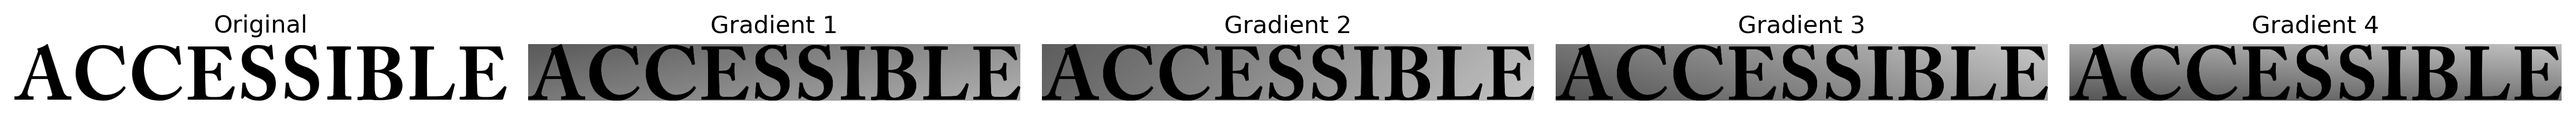
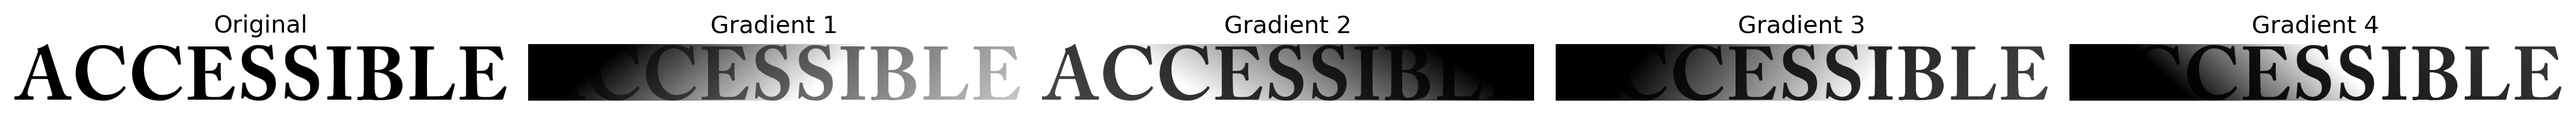
Updated gradient to match original code included with data (#72)
* Updated gradient to match original code included with data

* Fixed eval squeeze and monitoring metrics for finetune

* Adjusted blur limit

* Added additional logging

diff --git a/deepfont/data/augmentations.py b/deepfont/data/augmentations.py
@@ -10,78 +10,70 @@ from albumentations.augmentations.geometric.functional import resize
 
 IMAGE_SIZE = 105
 SQUEEZE_RATIO = 1 / 2.5
-SCALE_LIMIT = 0.15
-EVAL_SCALE_LIMIT = 0.4
-ROTATE_BOUNDS = (-45, 45)
-SHEAR_BOUNDS = (-15, 15)
-BLUR_LIMIT = (2.5, 3.5)
+SCALE_LIMIT = 0.4
+ROTATE_BOUNDS = (-3, 3)
+SHEAR_BOUNDS = (-3, 3)
+BLUR_LIMIT = (0.5, 1.0)
 NOISE_MEAN_RANGE = (0.0, 0.0)
-NOISE_STD_RANGE = (0.05, 0.15)
+NOISE_STD_RANGE = (0.008, 0.016)
 ROT_FLIP_PROB = 0.5
+INVERT_PROB = 0.5
+GRADIENT_FG_RANGE = (140, 220)
+GRADIENT_BG_RANGE = (20, 100)
+GRADIENT_A_RANGE = (0.4, 0.6)
 
 
 def add_grayscale_gradient(
-    image: np.ndarray, gradient_min: tuple = (20, 100), gradient_max: tuple = (140, 220)
+    image: np.ndarray,
+    fg_range: tuple = GRADIENT_FG_RANGE,
+    bg_range: tuple = GRADIENT_BG_RANGE,
+    a_range: tuple = GRADIENT_A_RANGE,
 ) -> np.ndarray:
-    """Adds a random linear gradient overlay to a grayscale image.
+    """Applies directional gradient shading that faithfully replicates affine2d.apply2.
 
-    This function generates a 2D linear gradient in a random direction and subtracts
-    it from the input image to simulate lighting variations. The gradient direction is
-    determined by a random 2D vector, and its intensity range is randomly sampled from
-    the specified bounds. This augmentation helps models become more robust to varying
-    lighting conditions and background gradients.
+    The legacy DeepFont C extension (affine2d.so) applies gradient shading in two steps:
+      1. Intensity remap: pixel values are linearly mapped from [0, 255] → [bg, fg],
+         so dark pixels get the background tone and bright pixels get the foreground tone.
+      2. Multiplicative spatial gradient: a linear scale centered on the image is applied
+         in a random direction θ, with amplitude controlled by `a`.
 
-    The gradient is normalized to [0, 1] and then scaled to the range [gradient_min, gradient_max]
-    before being subtracted from the image. The result is clipped to [0, 255] to ensure
-    valid pixel values.
+    Combined formula per pixel at (col, row):
+        normalized = pixel * (fg - bg) / 255 + bg
+        grad_pos   = (col - w/2) * cos(θ) + (row - h/2) * sin(θ)
+        scale      = 1.0 + a * grad_pos / min(h, w)
+        output     = normalized * scale
 
     Args:
         image: A 2D NumPy array representing a grayscale image with values in [0, 255].
             The array dtype will be preserved in the output.
-        gradient_min: A tuple of two floats (min_bound, max_bound) defining the range
-            from which the minimum gradient intensity is randomly sampled. Default is
-            (20, 100), meaning the gradient minimum will be between 20 and 100.
-        gradient_max: A tuple of two floats (min_bound, max_bound) defining the range
-            from which the maximum gradient intensity is randomly sampled. Default is
-            (140, 220), meaning the gradient maximum will be between 140 and 220.
+        fg_range: (min, max) for the foreground (bright) intensity level.
+            Default matches the legacy code: (140, 220).
+        bg_range: (min, max) for the background (dark) intensity level.
+            Default matches the legacy code: (20, 100).
+        a_range: (min, max) for the gradient amplitude factor.
+            Default matches the legacy code: (0.4, 0.6).
 
     Returns:
-        A 2D NumPy array of the same shape and dtype as the input, representing the
-        image with the gradient overlay applied.
-
-    Note:
-        The gradient is subtracted from the image, so higher gradient values result in
-        darker regions. The final result is clipped to ensure valid pixel values.
+        A 2D NumPy array of the same shape and dtype as the input, with gradient
+        shading applied and pixel values clipped to [0, 255].
     """
-    # Store the original image dtype
     original_dtype = image.dtype
-    # Convert the image to a float
-    image = image.astype(float)
-    # Draw a random 2D vector
-    random_vector = np.random.randn(2, 1)
-    # Create the x,y grid for the image
-    x = np.linspace(0, 1, image.shape[1])
-    y = np.linspace(0, 1, image.shape[0])
-    x, y = np.meshgrid(x, y)
-    # Create the gradient image
-    gradient_image = np.dot(random_vector.T, np.array([x.flatten(), y.flatten()])).reshape(
-        image.shape
-    ) / np.linalg.norm(random_vector)
-    # Normalize the gradient image
-    gradient_image = (gradient_image - np.min(gradient_image)) / (
-        np.max(gradient_image) - np.min(gradient_image)
-    )
-    # Choose a random value for the gradient bounds
-    gradient_min = np.random.uniform(gradient_min[0], gradient_min[1])
-    gradient_max = np.random.uniform(gradient_max[0], gradient_max[1])
-    # Scale the gradient image
-    gradient_image = gradient_min + (gradient_max - gradient_min) * gradient_image
-    # Add the gradient to the image
-    image = image - gradient_image
-    # Clip the image and convert it back to the original dtype
-    image = np.clip(image, 0, 255).astype(original_dtype)
+    h, w = image.shape[:2]
 
-    return image
+    fg = np.random.uniform(fg_range[0], fg_range[1])
+    bg = np.random.uniform(bg_range[0], bg_range[1])
+    theta = np.random.uniform(0, 2 * np.pi)
+    a = np.random.uniform(a_range[0], a_range[1])
+
+    normalized = image.astype(float) * (fg - bg) / 255.0 + bg
+
+    cols = np.arange(w) - w / 2.0
+    rows = np.arange(h) - h / 2.0
+    col_grid, row_grid = np.meshgrid(cols, rows)
+    projection = col_grid * np.cos(theta) + row_grid * np.sin(theta)
+    scale = 1.0 + a * projection / min(h, w)
+
+    return np.clip(normalized * scale, 0, 255).astype(original_dtype)
 
 
 class RandomWidthScale(RandomScale):
@@ -213,7 +205,7 @@ class SyntheticAugmentationPipeline:
             [
                 ResizeHeightSqueezeWidth(IMAGE_SIZE, SQUEEZE_RATIO, p=1.0),
                 RandomWidthScale(scale_limit=SCALE_LIMIT, p=1.0),
-                A.InvertImg(p=aug_prob),
+                A.InvertImg(p=INVERT_PROB),
                 A.Affine(
                     rotate=ROTATE_BOUNDS,
                     shear=SHEAR_BOUNDS,
@@ -240,9 +232,10 @@ class SyntheticAugmentationPipeline:
         self._compose = self._build(value)
 
     def __call__(self, image: np.ndarray) -> np.ndarray:
+        image = self._compose(image=image)["image"]
         if np.random.rand() < self._aug_prob:
             image = add_grayscale_gradient(image)
-        return self._compose(image=image)["image"]
+        return image
 
 
 class RealAugmentationPipeline:
@@ -265,7 +258,7 @@ class RealAugmentationPipeline:
             [
                 ResizeHeightSqueezeWidth(IMAGE_SIZE, SQUEEZE_RATIO, p=1.0),
                 RandomWidthScale(scale_limit=SCALE_LIMIT, p=1.0),
-                A.InvertImg(p=aug_prob),
+                A.InvertImg(p=INVERT_PROB),
                 A.Affine(
                     rotate=ROTATE_BOUNDS,
                     shear=SHEAR_BOUNDS,
@@ -309,7 +302,7 @@ class EvalAugmentationPipeline:
         self._compose = A.Compose(
             [
                 ResizeHeightSqueezeWidth(IMAGE_SIZE, SQUEEZE_RATIO, p=1.0),
-                RandomWidthScale(scale_limit=EVAL_SCALE_LIMIT, p=1.0),
+                RandomWidthScale(scale_limit=SCALE_LIMIT, p=1.0),
                 A.RandomCrop(IMAGE_SIZE, IMAGE_SIZE, p=1.0),
             ]
         )

diff --git a/tests/test_augmentations.py b/tests/test_augmentations.py
@@ -39,8 +39,10 @@ from deepfont.data.augmentations import (
     ROTATE_BOUNDS,
     SQUEEZE_RATIO,
     NOISE_STD_RANGE,
-    EVAL_SCALE_LIMIT,
     NOISE_MEAN_RANGE,
+    GRADIENT_FG_RANGE,
+    GRADIENT_BG_RANGE,
+    GRADIENT_A_RANGE,
     RandomWidthScale,
     ResizeHeightSqueezeWidth,
     eval_pipeline,
@@ -90,28 +92,34 @@ class TestConstants:
         assert SQUEEZE_RATIO == pytest.approx(1 / 2.5)
 
     def test_scale_limit(self):
-        assert SCALE_LIMIT == pytest.approx(0.15)
-
-    def test_eval_scale_limit(self):
-        assert EVAL_SCALE_LIMIT == pytest.approx(0.4)
+        assert SCALE_LIMIT == pytest.approx(0.4)
 
     def test_rotate_bounds(self):
-        assert ROTATE_BOUNDS == (-45, 45)
+        assert ROTATE_BOUNDS == (-3, 3)
 
     def test_shear_bounds(self):
-        assert SHEAR_BOUNDS == (-15, 15)
+        assert SHEAR_BOUNDS == (-3, 3)
 
     def test_blur_limit(self):
-        assert BLUR_LIMIT == (2.5, 3.5)
+        assert BLUR_LIMIT == (0.5, 1.0)
 
     def test_noise_mean_range(self):
         assert NOISE_MEAN_RANGE == (0.0, 0.0)
 
     def test_noise_std_range(self):
-        assert NOISE_STD_RANGE == (0.05, 0.15)
+        assert NOISE_STD_RANGE == (0.008, 0.016)
 
     def test_rot_flip_prob(self):
         assert ROT_FLIP_PROB == pytest.approx(0.5)
+
+    def test_gradient_fg_range(self):
+        assert GRADIENT_FG_RANGE == (140, 220)
+
+    def test_gradient_bg_range(self):
+        assert GRADIENT_BG_RANGE == (20, 100)
+
+    def test_gradient_a_range(self):
+        assert GRADIENT_A_RANGE == (0.4, 0.6)
 
 
 # add_grayscale_gradient
@@ -144,8 +152,8 @@ class TestAddGrayscaleGradient:
         result = add_grayscale_gradient(bright)
         assert not np.array_equal(result, bright)
 
-    def test_custom_gradient_bounds_produces_valid_output(self, wide_image):
-        result = add_grayscale_gradient(wide_image, gradient_min=(0, 10), gradient_max=(10, 20))
+    def test_custom_a_range_produces_valid_output(self, wide_image):
+        result = add_grayscale_gradient(wide_image, a_range=(0.1, 0.2))
         assert result.shape == wide_image.shape
         assert result.dtype == wide_image.dtype
         assert int(result.min()) >= 0

diff --git a/deepfont/trainer/config.py b/deepfont/trainer/config.py
@@ -62,6 +62,12 @@ class TrainerConfig(BaseModel):
     # Reproducibility
     seed: int | None = Field(default=None)
 
+    # LR Scheduler monitor (used by ReduceLROnPlateau in BaseTrainer._step_scheduler)
+    scheduler_monitor: str = Field(
+        default="val_loss",
+        description="Metric name passed to ReduceLROnPlateau.step().",
+    )
+
     @field_validator("max_epochs", mode="after")
     @classmethod
     def _max_epochs_positive_if_set(cls, v: int | None) -> int | None:

diff --git a/deepfont/trainer/base.py b/deepfont/trainer/base.py
@@ -415,7 +415,7 @@ class BaseTrainer(ABC):
         if scheduler is None:
             return
         if isinstance(scheduler, torch.optim.lr_scheduler.ReduceLROnPlateau):
-            monitor = val_metrics.get("val_loss")
+            monitor = val_metrics.get(self.config.scheduler_monitor)
             if monitor is not None:
                 scheduler.step(monitor.item())
         else:

diff --git a/deepfont/trainer/finetune.py b/deepfont/trainer/finetune.py
@@ -260,6 +260,8 @@ class FinetuneTrainer(BaseTrainer):
         if ckpt_path is not None:
             state: dict = {"model": model}
             self.fabric.load(ckpt_path, state)
+            if self.fabric.is_global_zero:
+                logger.info("Loaded checkpoint: %s", ckpt_path)
 
         eval_dataset = EvalData(self.eval_data_config)
         eval_loader = DataLoader(

diff --git a/deepfont/trainer/pretrain.py b/deepfont/trainer/pretrain.py
@@ -79,6 +79,7 @@ class PretrainTrainer(BaseTrainer):
         """
         dataset = PretrainData(self.data_config)
         train_set, val_set = dataset.split_data_random(train_ratio=self.config.train_ratio)
+        val_set.aug_prob = 0.0
 
         # Balance real ↔ synthetic in the training split
         if self.config.upsample_real_images:
